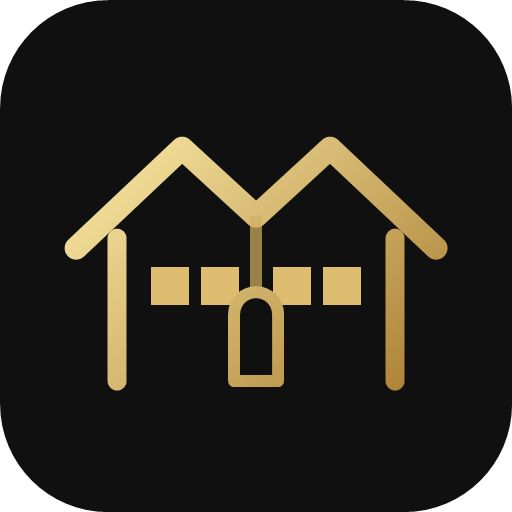
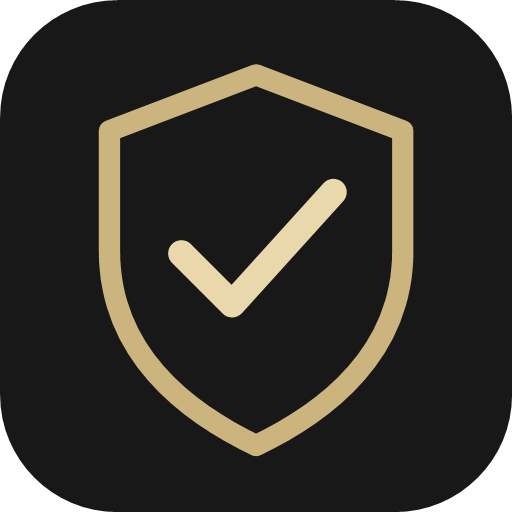
Restore PRIME Authenticator shield branding

diff --git a/index.html b/index.html
@@ -1,1 +1,1 @@
-<!doctype html><html lang="it"><head><meta charset="utf-8"><meta name="viewport" content="width=device-width,initial-scale=1,viewport-fit=cover"><meta name="apple-mobile-web-app-capable" content="yes"><meta name="apple-mobile-web-app-status-bar-style" content="black-translucent"><meta name="apple-mobile-web-app-title" content="PRIME Auth"><meta name="referrer" content="no-referrer"><link rel="apple-touch-icon" href="./icon-192.png"><meta name="theme-color" content="#101010"><meta name="description" content="PRIME Authenticator: codici temporanei offline e archivio cifrato."><title>PRIME Authenticator</title><link rel="manifest" href="./manifest.webmanifest"><link rel="icon" href="./icon.svg" type="image/svg+xml"><link rel="stylesheet" href="./style.css?v=20261103-twa-v4"><script type="module" src="./main.js?v=20261103-twa-v4"></script></head><body><main><header><div class="brand"><img src="./icon.svg" width="48" height="48" alt=""><div><span>PRIME</span><h1>Authenticator</h1></div></div><span class="badge">APP · 0.4</span></header><p class="intro">Scansiona. Approva. Entra in PRIME.</p><section class="install-card"><p>Un’app dedicata, sul tuo dispositivo.</p><button id="install" class="primary" type="button">Installa PRIME Authenticator</button><details id="install-help"><summary>Android, iPhone e browser: come installarla</summary><p><strong>Android · Chrome:</strong> premi Installa oppure apri il menu ⋮ e scegli Installa app / Aggiungi a schermata Home.</p><p><strong>iPhone e iPad · Safari:</strong> apri questa pagina in Safari, premi Condividi e Aggiungi alla schermata Home. Se presente, attiva Apri come app web.</p><p><strong>Computer:</strong> usa Installa nella barra indirizzi di Chrome o Edge. Dove l’installazione non è disponibile, l’app funziona nel browser, inclusi Firefox e Safari.</p><p>I codici funzionano anche offline. Abbinamento e approvazione accessi richiedono Internet. Le chiavi restano nell’archivio cifrato di questo dispositivo.</p></details></section><div id="status" role="status"></div><section id="lock" class="panel"><h2 id="lock-title">Sblocca i tuoi codici</h2><p id="lock-description">L’archivio è cifrato sul dispositivo. La password non viene inviata a PRIME.</p><form id="unlock"><label>Password dell’archivio<input name="password" type="password" autocomplete="current-password" minlength="12" required></label><label id="confirm-label" hidden>Ripeti password<input name="confirm" type="password" autocomplete="new-password" minlength="12"></label><button class="primary">Sblocca</button></form><button id="biometric-unlock" type="button" class="secondary" hidden>Sblocca con Face ID / impronta</button><p id="biometric-lock-note" class="note"></p><label class="file-button">Ripristina un backup cifrato<input id="restore" type="file" accept="application/json,.json" hidden></label></section><section id="vault" hidden><div class="toolbar"><button id="add">Scansiona QR / aggiungi</button><button id="backup">Esporta backup cifrato</button><button id="lock-now" class="quiet">Blocca</button></div><section class="panel biometric-settings"><h2>Face ID, Touch ID e impronta</h2><p>Sblocca l’archivio con la verifica del dispositivo, sui browser compatibili. Il sistema può proporre anche il PIN o codice dispositivo. Nessun dato biometrico viene inviato a PRIME.</p><button id="biometric-enable" type="button">Attiva sblocco biometrico</button><button id="biometric-disable" class="quiet" type="button" hidden>Disattiva su questo dispositivo</button><p id="biometric-status" class="note" role="status"></p></section><div id="codes"></div><p class="note">Codici offline · blocco automatico quando esci dall’app o dopo un minuto di inattività. Conserva un backup cifrato: PRIME non può recuperare la password.</p></section><footer><p>PRIME Authenticator · archivio locale cifrato</p><p>Configura l’ora automatica del dispositivo per mantenere i codici sincronizzati.</p></footer></main><dialog id="enroll"><form id="add-account"><h2>Aggiungi un account</h2><p>Scansiona il QR di accesso a PRIME o il QR di abbinamento in Sicurezza account. Puoi anche aggiungere un account TOTP.</p><button id="scan" type="button">Scansiona QR con fotocamera</button><label class="file-button">Importa immagine QR<input id="qr-file" type="file" accept="image/*" capture="environment" hidden></label><video id="camera" muted playsinline hidden></video><button type="button" id="stop-camera" hidden>Ferma fotocamera</button><label>QR PRIME, URI otpauth o chiave<input name="secret" autocomplete="off" spellcheck="false" required></label><label>Nome account<input name="account" placeholder="La tua email" autocomplete="off"></label><p id="enroll-status" role="status"></p><div class="toolbar"><button class="primary">Aggiungi</button><button id="close-enroll" type="button" class="quiet">Annulla</button></div></form></dialog><dialog id="prime-request"><div class="request-body"></div><button id="prime-request-close" type="button" class="quiet">Annulla / chiudi</button></dialog></body></html>
+<!doctype html><html lang="it"><head><meta charset="utf-8"><meta name="viewport" content="width=device-width,initial-scale=1,viewport-fit=cover"><meta name="apple-mobile-web-app-capable" content="yes"><meta name="apple-mobile-web-app-status-bar-style" content="black-translucent"><meta name="apple-mobile-web-app-title" content="PRIME Auth"><meta name="referrer" content="no-referrer"><link rel="apple-touch-icon" href="./icon-192.png?v=20261103-original-shield"><meta name="theme-color" content="#101010"><meta name="description" content="PRIME Authenticator: codici temporanei offline e archivio cifrato."><title>PRIME Authenticator</title><link rel="manifest" href="./manifest.webmanifest"><link rel="icon" href="./icon.svg?v=20261103-original-shield" type="image/svg+xml"><link rel="stylesheet" href="./style.css?v=20261103-twa-v4"><script type="module" src="./main.js?v=20261103-twa-v4"></script></head><body><main><header><div class="brand"><img src="./icon.svg?v=20261103-original-shield" width="48" height="48" alt=""><div><span>PRIME</span><h1>Authenticator</h1></div></div><span class="badge">APP · 0.4</span></header><p class="intro">Scansiona. Approva. Entra in PRIME.</p><section class="install-card"><p>Un’app dedicata, sul tuo dispositivo.</p><button id="install" class="primary" type="button">Installa PRIME Authenticator</button><details id="install-help"><summary>Android, iPhone e browser: come installarla</summary><p><strong>Android · Chrome:</strong> premi Installa oppure apri il menu ⋮ e scegli Installa app / Aggiungi a schermata Home.</p><p><strong>iPhone e iPad · Safari:</strong> apri questa pagina in Safari, premi Condividi e Aggiungi alla schermata Home. Se presente, attiva Apri come app web.</p><p><strong>Computer:</strong> usa Installa nella barra indirizzi di Chrome o Edge. Dove l’installazione non è disponibile, l’app funziona nel browser, inclusi Firefox e Safari.</p><p>I codici funzionano anche offline. Abbinamento e approvazione accessi richiedono Internet. Le chiavi restano nell’archivio cifrato di questo dispositivo.</p></details></section><div id="status" role="status"></div><section id="lock" class="panel"><h2 id="lock-title">Sblocca i tuoi codici</h2><p id="lock-description">L’archivio è cifrato sul dispositivo. La password non viene inviata a PRIME.</p><form id="unlock"><label>Password dell’archivio<input name="password" type="password" autocomplete="current-password" minlength="12" required></label><label id="confirm-label" hidden>Ripeti password<input name="confirm" type="password" autocomplete="new-password" minlength="12"></label><button class="primary">Sblocca</button></form><button id="biometric-unlock" type="button" class="secondary" hidden>Sblocca con Face ID / impronta</button><p id="biometric-lock-note" class="note"></p><label class="file-button">Ripristina un backup cifrato<input id="restore" type="file" accept="application/json,.json" hidden></label></section><section id="vault" hidden><div class="toolbar"><button id="add">Scansiona QR / aggiungi</button><button id="backup">Esporta backup cifrato</button><button id="lock-now" class="quiet">Blocca</button></div><section class="panel biometric-settings"><h2>Face ID, Touch ID e impronta</h2><p>Sblocca l’archivio con la verifica del dispositivo, sui browser compatibili. Il sistema può proporre anche il PIN o codice dispositivo. Nessun dato biometrico viene inviato a PRIME.</p><button id="biometric-enable" type="button">Attiva sblocco biometrico</button><button id="biometric-disable" class="quiet" type="button" hidden>Disattiva su questo dispositivo</button><p id="biometric-status" class="note" role="status"></p></section><div id="codes"></div><p class="note">Codici offline · blocco automatico quando esci dall’app o dopo un minuto di inattività. Conserva un backup cifrato: PRIME non può recuperare la password.</p></section><footer><p>PRIME Authenticator · archivio locale cifrato</p><p>Configura l’ora automatica del dispositivo per mantenere i codici sincronizzati.</p></footer></main><dialog id="enroll"><form id="add-account"><h2>Aggiungi un account</h2><p>Scansiona il QR di accesso a PRIME o il QR di abbinamento in Sicurezza account. Puoi anche aggiungere un account TOTP.</p><button id="scan" type="button">Scansiona QR con fotocamera</button><label class="file-button">Importa immagine QR<input id="qr-file" type="file" accept="image/*" capture="environment" hidden></label><video id="camera" muted playsinline hidden></video><button type="button" id="stop-camera" hidden>Ferma fotocamera</button><label>QR PRIME, URI otpauth o chiave<input name="secret" autocomplete="off" spellcheck="false" required></label><label>Nome account<input name="account" placeholder="La tua email" autocomplete="off"></label><p id="enroll-status" role="status"></p><div class="toolbar"><button class="primary">Aggiungi</button><button id="close-enroll" type="button" class="quiet">Annulla</button></div></form></dialog><dialog id="prime-request"><div class="request-body"></div><button id="prime-request-close" type="button" class="quiet">Annulla / chiudi</button></dialog></body></html>

diff --git a/sw.js b/sw.js
@@ -1,4 +1,4 @@
-const cache='prime-authenticator-20261103-twa-v4';
+const cache='prime-authenticator-20261103-original-shield-v5';
 const files=['./','./index.html','./main.js','./crypto.js','./prime-qr.js','./biometric.js','./qr-decoder.js','./style.css','./icon.svg','./icon-192.png','./icon-512.png','./manifest.webmanifest'];
 const allowed=new Set(files.map(f=>new URL(f,self.location).pathname));
 self.addEventListener('install',e=>e.waitUntil(caches.open(cache).then(c=>c.addAll(files)).then(()=>self.skipWaiting())));
